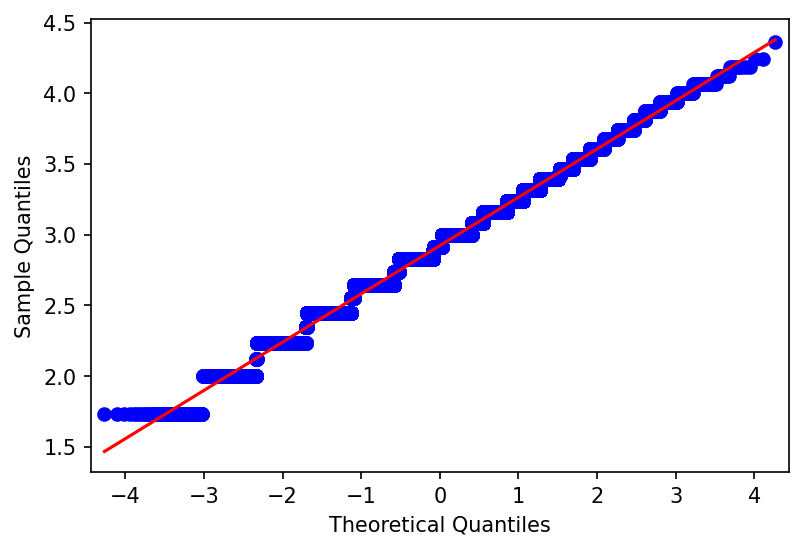
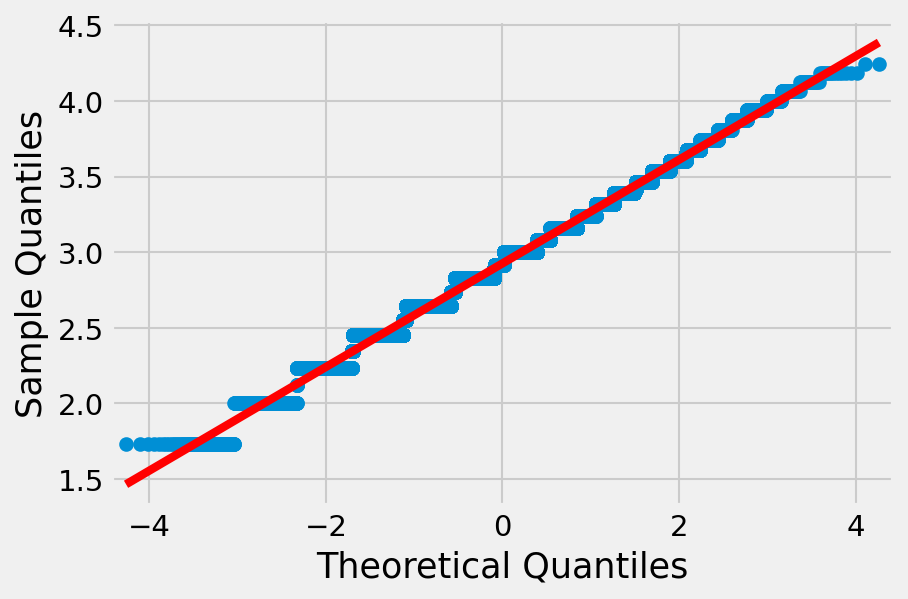
improve chart output

Changed region(s): [[0.0, 0.0309, 0.9963, 0.9891], [0.2491, 0.8964, 0.2802, 0.9273]]

diff --git a/Readme.md b/Readme.md
@@ -18,6 +18,8 @@ import statsmodels.stats.multitest as multitest
 import scipy.stats as stats
 import numpy
 import matplotlib.pyplot as pyplot
+# set pyplot to the standard background
+pyplot.style.use('fivethirtyeight')
 pyplot.rcParams['figure.dpi'] = 150
 pyplot.rcParams['savefig.dpi'] = 150
 ```
@@ -115,11 +117,13 @@ if not os.path.exists(output_filename):
 
 ```
 
-This reduces the data to only the required fields by calculating a score for each hand of each player:
+This reduces the data to only the required fields by extracting the hand of each player:
 
 
 ```python
 with open(output_filename) as games_file:
+    line = games_file.readline()
+    # get the second line
     line = games_file.readline()
     print(line)
     id_tag, session, player, position, hand_score = line.split('\t')
@@ -128,18 +132,17 @@ with open(output_filename) as games_file:
         '\nSession:', session,
         '\nPlayer:', player,
         '\nPosition:', position,
-        '\nHand Score:', hand_score,
+        '\nHand:', hand_score,
     )
-
 ```
 
-    id	session	player	position	hand
+    5557737_2019-01-01/00:00:35/UTC	2019-01-01-Cardano-theCount-xskat	Cardano	1	HJ_DT_D7_HQ_DA_CJ_HK_CQ_C7_DQ
     
-    ID: id 
-    Session: session 
-    Player: player 
-    Position: position 
-    Hand Score: hand
+    ID: 5557737_2019-01-01/00:00:35/UTC 
+    Session: 2019-01-01-Cardano-theCount-xskat 
+    Player: Cardano 
+    Position: 1 
+    Hand: HJ_DT_D7_HQ_DA_CJ_HK_CQ_C7_DQ
     
 
 
@@ -149,7 +152,6 @@ For the analysis we will focus on a single plyer (PeterB) and the hands dealt to
 ```python
 input_filename = output_filename
 issgame.extract_sessions(input_filename, 'PeterB')
-
 ```
 
 
@@ -171,18 +173,18 @@ with open(input_filename[:-4] + '_PeterB.csv') as games_file:
     )
 ```
 
-    PeterB,2021-01-01-PeterB-kermit-theCount,10.0,8.0,10.0,11.5,8.0,10.0,7.0,8.0,4.0,11.0,9.5,6.0,8.0,8.0,10.0,9.5,6.0,9.0,6.0,9.0,11.667,10.0
+    PeterB,2020-11-05-PeterB-kasparo-zoot,7.0
     
-    PeterB,2021-01-02-PeterB-kermit-theCount,7.0,10.0,9.0,6.0,7.0,9.0,8.0,9.0,7.0,8.5,10.0,8.0
+    PeterB,2020-11-07-PeterB-jellyfi-kasparo,4.0,10.5,11.0,10.5,9.0,9.0,8.0,6.0,10.5,10.0,8.5,10.5,12.0,9.0
     
-    PeterB,2021-01-02-PeterB-bernie-xskat,7.0,9.5,14.0,8.0,8.0,7.0,7.0,6.0,9.0,11.5,8.0,8.0,9.0,11.0,10.0,6.0,12.5,8.5,8.0,7.0,10.0,10.0,7.0,10.5,10.0,10.5,8.0,11.0,10.0,10.5,9.0,9.0
+    PeterB,2020-11-14-PeterB-jellyfi-kasparo,7.0,11.0,13.0,10.5,7.0,9.0,11.0,10.0,6.0,13.0,8.0,9.0
     
-    PeterB,2021-01-02-PeterB-theCount-theCount:2,8.0,7.0,7.0,12.5,8.0,8.0,8.0,7.0,10.0,9.5,8.0,8.5,10.0,8.5,8.0,8.0,9.0,9.0,8.5,6.0,10.0
+    PeterB,2020-11-21-PeterB-jellyfi-kasparo,9.5,6.0,9.0,8.0,9.0,11.0,9.0,6.0,12.5,6.5,6.0,9.5
     
     
     Player: PeterB 
-    Session: 2021-01-02-PeterB-theCount-theCount:2 
-    Hand scores: ['8.0', '7.0', '7.0', '12.5', '8.0', '8.0', '8.0', '7.0', '10.0', '9.5', '8.0', '8.5', '10.0', '8.5', '8.0', '8.0', '9.0', '9.0', '8.5', '6.0', '10.0']
+    Session: 2020-11-21-PeterB-jellyfi-kasparo 
+    Hand scores: ['9.5', '6.0', '9.0', '8.0', '9.0', '11.0', '9.0', '6.0', '12.5', '6.5', '6.0', '9.5']
 
 
 ## Session Means Compared
@@ -237,7 +239,7 @@ Since we do not know the standard deviation of the population and the session sa
 print(session_n)
 ```
 
-    [22, 12, 32, 21, 20, 22, 31, 70, 111, 48, 26, 91, 75, 40, 39, 20, 20, 29, 10, 20, 20, 21, 20, 10, 16, 12, 20, 40, 30, 20, 20, 11, 10, 40, 50, 14, 52, 40, 100, 15, 65, 50, 45, 12, 20, 24, 42, 10, 11]
+    [14, 12, 12, 12, 25, 12, 12, 24, 56, 30, 88, 19, 60, 14, 22, 12, 32, 21, 20, 22, 31, 70, 111, 48, 26, 91, 75, 40, 39, 20, 20, 29, 10, 20, 20, 21, 20, 10, 16, 12, 20, 40, 30, 20, 20, 11, 10, 40, 50, 14, 52, 40, 100, 15, 65, 50, 45, 12, 20, 24, 42, 10, 11]
 
 
 We also cannot assume that the variance of the sessions and overall sample are the same we cannot use a Student's t-test, so we use an independent two-sample Welch's t-test instead. Since we are testing for equality, we use a two-tailed measure (the session mean could be lower or higher than overall sample mean). The following additional assumptions must be met for this test:
@@ -263,9 +265,7 @@ pyplot.show()
 ```
 
 
-    
 ![png](Readme_files/Readme_22_0.png)
-    
 
 
 Applying a square root transformation to the data corrects for this:
@@ -279,9 +279,7 @@ pyplot.show()
 ```
 
 
-    
 ![png](Readme_files/Readme_24_0.png)
-    
 
 
 In order to fulfill the requirement of normality, we transform (by taking the square root) both the dataset of all hands and the dataset of PeterB's sessions.
@@ -309,9 +307,7 @@ pyplot.show()
 ```
 
 
-    
 ![png](Readme_files/Readme_28_0.png)
-    
 
 
 
@@ -354,9 +350,7 @@ pyplot.show()
 ```
 
 
-    
 ![png](Readme_files/Readme_30_0.png)
-    
 
 
 We fail to reject the default hypothesis that the population from which the samples were drawn is normally distributed.
@@ -409,9 +403,7 @@ pyplot.show()
 ```
 
 
-    
 ![png](Readme_files/Readme_32_0.png)
-    
 
 
 ## Conclusion
